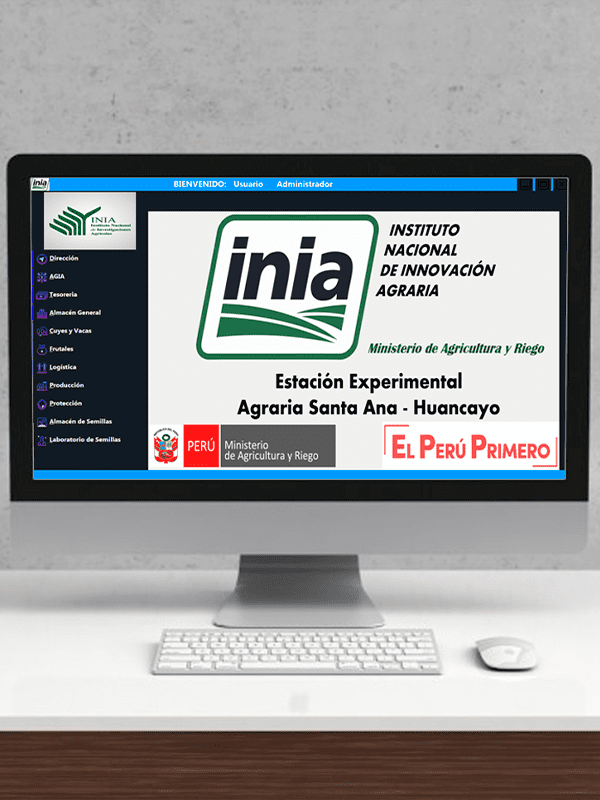
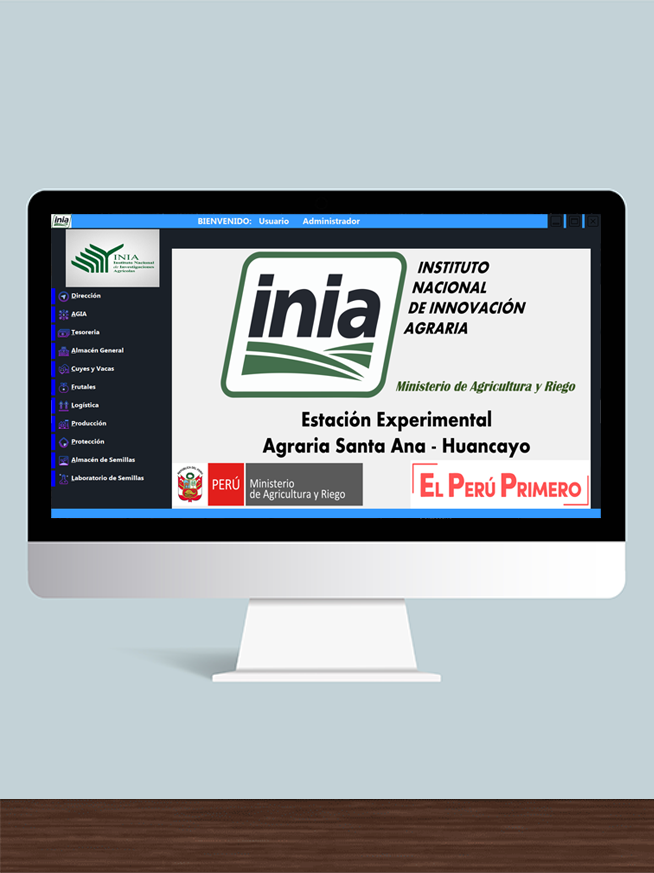
Añadí imagenes a proyectos y color de botones

diff --git a/index.html b/index.html
@@ -42,19 +42,19 @@
 					<nav id="tmMainNav" class="tm-main-nav">
 						<ul>
 							<li>
-								<a href="#intro" id="tmNavLink1" class="scrolly active" data-bg-img="preparete.jpg" data-page="#tm-section-1">
+								<a href="#intro" id="tmNavLink1" class="scrolly active" data-bg-img="pc_night.png" data-page="#tm-section-1">
 									<i class="fas fa-home tm-nav-fa-icon" style="font-size: 30px;"></i>
 									<span>Introducción</span>
 								</a>
 							</li>
 							<li>
-								<a href="#products" id="tmNavLink2" class="scrolly" data-bg-img="mockups.jpg" data-page="#tm-section-2" data-page-type="carousel">
+								<a href="#products" id="tmNavLink2" class="scrolly" data-bg-img="mockups.png" data-page="#tm-section-2" data-page-type="carousel">
 									<i class="fas fa-map tm-nav-fa-icon" style="font-size: 30px;"></i>
 									<span>Proyectos</span>
 								</a>
 							</li>
 							<li>
-								<a href="#contact" class="scrolly" data-bg-img="pc_night.jpg" data-page="#tm-section-4">
+								<a href="#contact" class="scrolly" data-bg-img="prepare.png" data-page="#tm-section-4">
 									<i class="fas fa-comments tm-nav-fa-icon" style="font-size: 30px;"></i>
 									<span>Contacto</span>
 								</a>
@@ -70,8 +70,10 @@
 					<section id="tm-section-1" class="tm-section">
 						<div class="ml-auto">
 							<header class="mb-4" style="text-align:right"><h1 class="tm-text-shadow">ORDOÑEZ HILARIO</h1> <h1>German Aldo</h1></header>
-							<p class="mb-5 tm-font-big">___________</p>
-							<a href="#" class="btn tm-btn tm-font-big" data-nav-link="#tmNavLink2">Continuar...</a>
+							<p class="mb-5 tm-font-big">
+								Formación
+							</p>
+							<a href="#" class="btn tm-btn tm-font-big" data-nav-link="#tmNavLink2" style="color:#33ccff;border:2px solid #33ccff">Continuar...</a>
 							<!-- data-nav-link holds the ID of nav item, which means this link should behave the same as that nav item  -->
 						</div>
 					</section>
@@ -82,9 +84,10 @@
 							<header class="mb-4"><h2 class="tm-text-shadow">Proyectos</h2></header>
 							<div class="tm-img-container">
 								<div class="tm-img-slider">
-									<a href="img/vidadent.png" class="tm-slider-img"><img src="img/vidadent.png" alt="Image" class="img-fluid"></a>
-									<a href="img/zosma.png" class="tm-slider-img"><img src="img/zosma.png" alt="Image" class="img-fluid"></a>
-									<a href="img/inia.png" class="tm-slider-img"><img src="img/inia.png" alt="Image" class="img-fluid"></a>
+									<a href="img/vidadent.png" class="tm-slider-img"><img src="img/vidadent.png" alt="Image" class="img-fluid">Clínica Dental VidaDent</a>
+									<a href="img/zosma.png" class="tm-slider-img"><img src="img/zosma.png" alt="Image" class="img-fluid">Zosma Team</a>
+									<a href="img/sisdist.png" class="tm-slider-img"><img src="img/sisdist.png" alt="Image" class="img-fluid">Sistema de distribución</a>
+									<a href="img/inia.png" class="tm-slider-img"><img src="img/inia.png" alt="Image" class="img-fluid">Sistema de reportes INIA-Huancayo</a>
 								</div>
 							</div>
 						</div>
@@ -111,7 +114,7 @@
 											<div class="form-group">
 												<textarea id="contact_message" name="contact_message" class="form-control"  placeholder="Mensaje" required></textarea>
 											</div>
-											<button type="submit" class="btn tm-btn-submit tm-btn ml-auto">Enviar</button>
+											<button type="submit" class="btn tm-btn-submit tm-btn ml-auto" style="color:#33ccff;border:2px solid #33ccff; width: 100%;">Enviar</button>
 										</form>
 									</div>
 								</div>

diff --git a/css/magnific-popup.css b/css/magnific-popup.css
@@ -5,6 +5,14 @@
   border-radius: 50%;
   border: 1px solid rgba(255,255,255,0.4);
 }
+.tm-slider-img{
+  color: white;
+  text-decoration: none;
+}
+.tm-slider-img:hover{
+  color: white;
+  text-decoration: none;
+}
 @media (max-width: 678px){
   #foto_perfil{
     top:10px;
